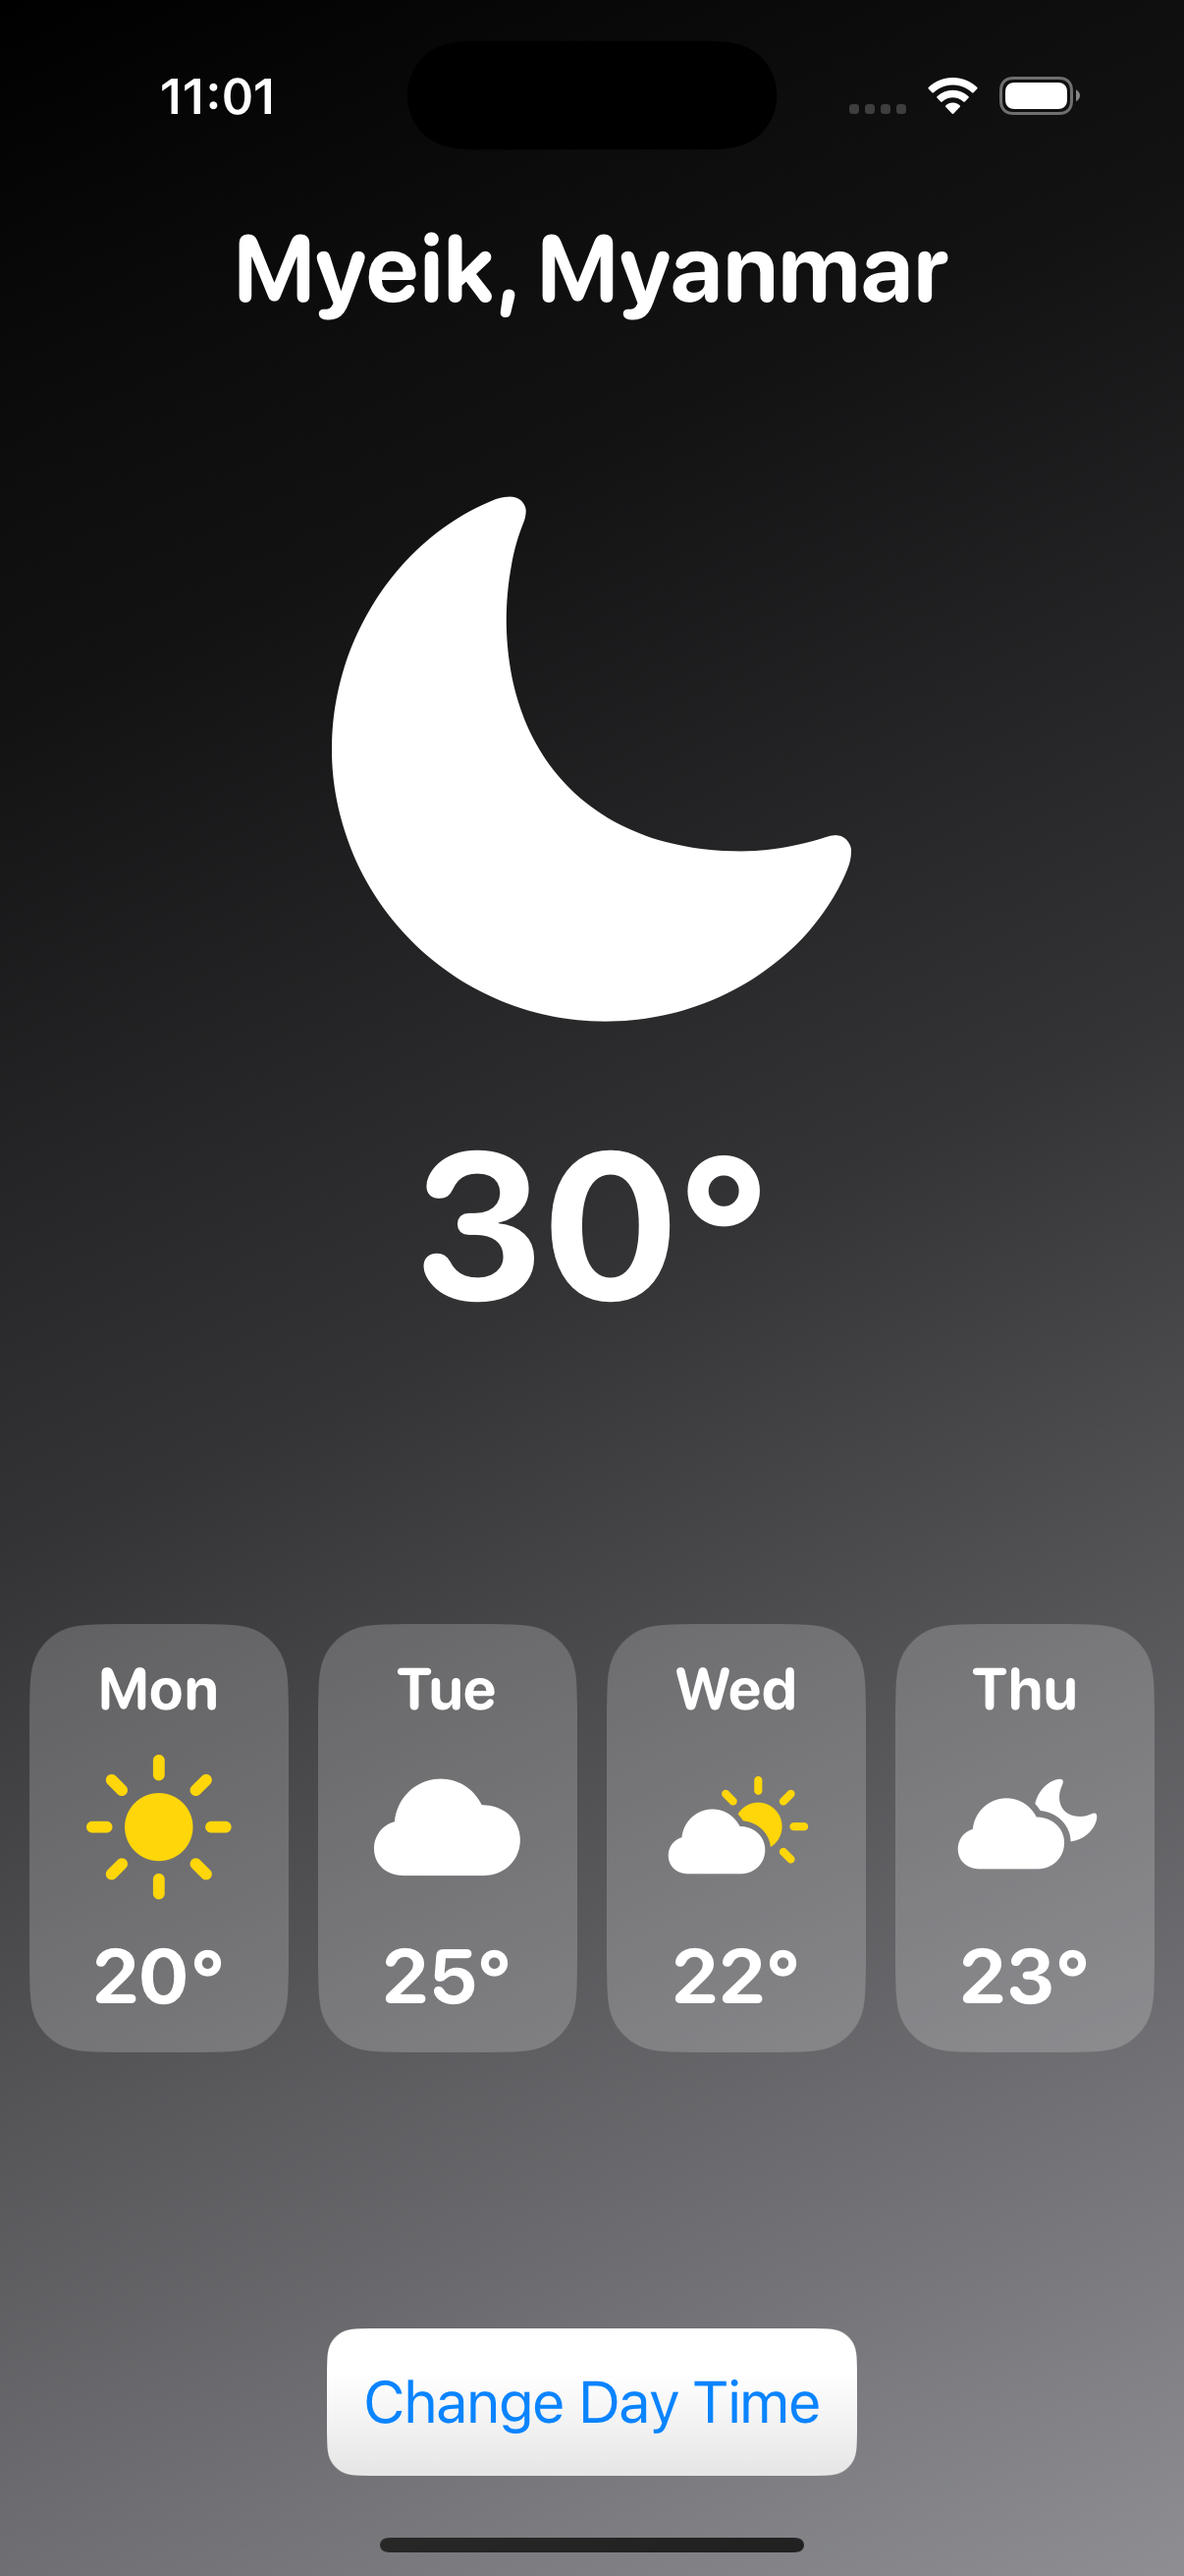
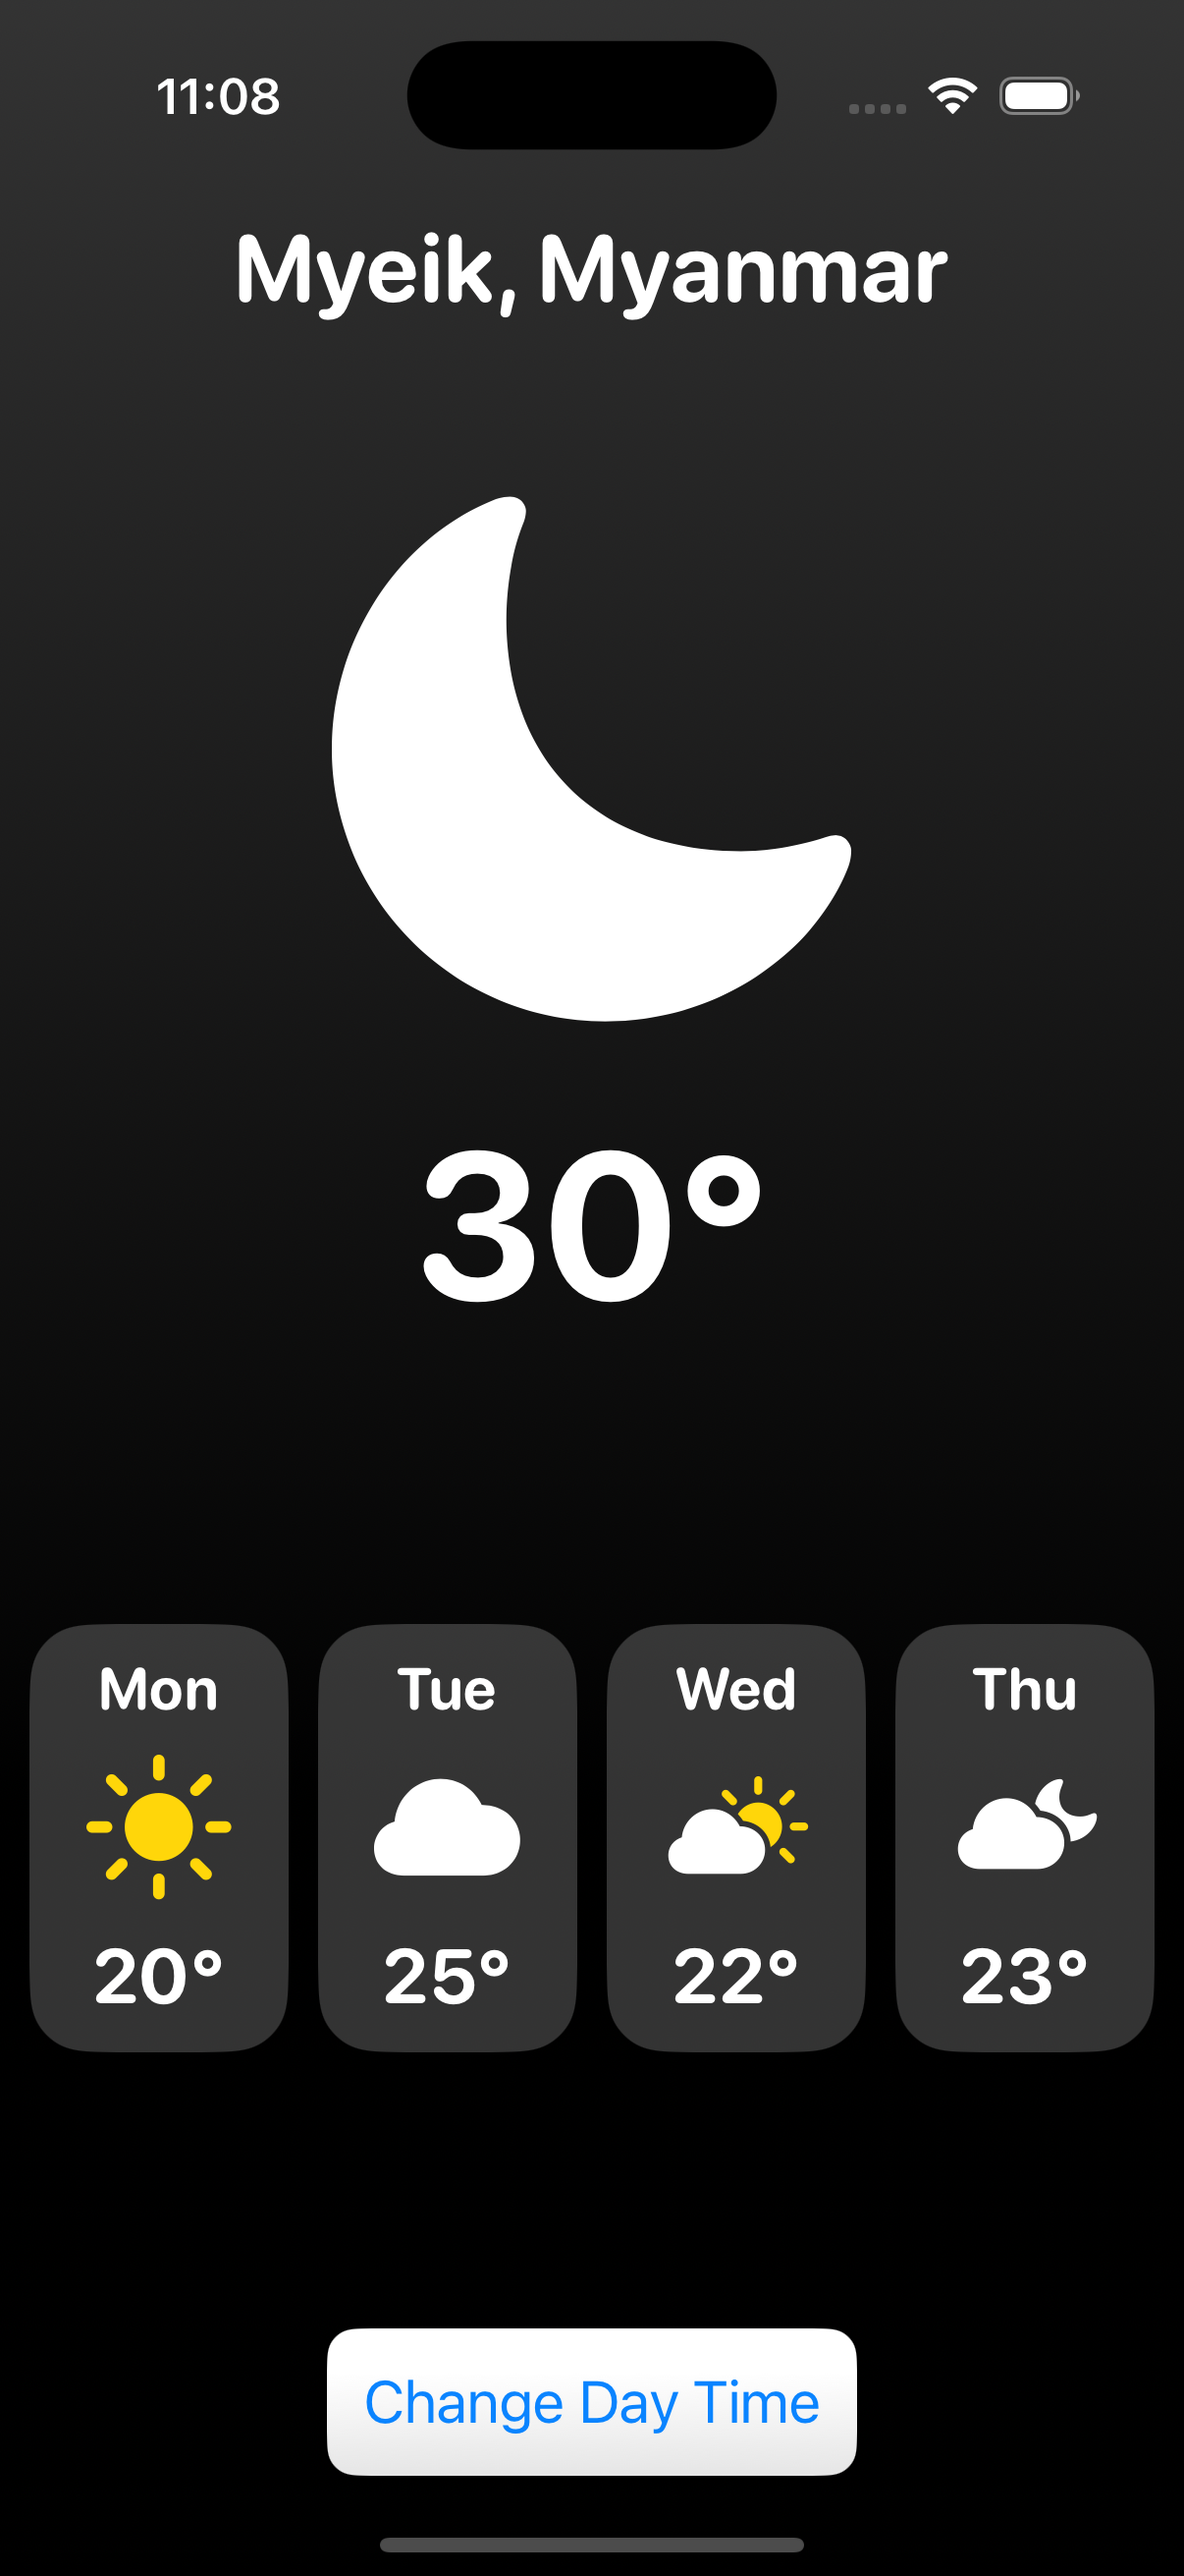
feat: gradient color

diff --git a/weather-ui/ContentView.swift b/weather-ui/ContentView.swift
@@ -126,9 +126,12 @@ struct BackgroundView: View {
     }
     
     var body: some View {
-        LinearGradient(colors: [topColor, bottomColor],
-                       startPoint: .topLeading,
-                       endPoint: .bottomTrailing)
-        .ignoresSafeArea(.all)
+        ContainerRelativeShape()
+            .fill(isDayTime ? Color.blue.gradient : Color.black.gradient)
+            .ignoresSafeArea()
+//        LinearGradient(colors: [topColor, bottomColor],
+//                       startPoint: .topLeading,
+//                       endPoint: .bottomTrailing)
+//        .ignoresSafeArea(.all)
     }
 }
